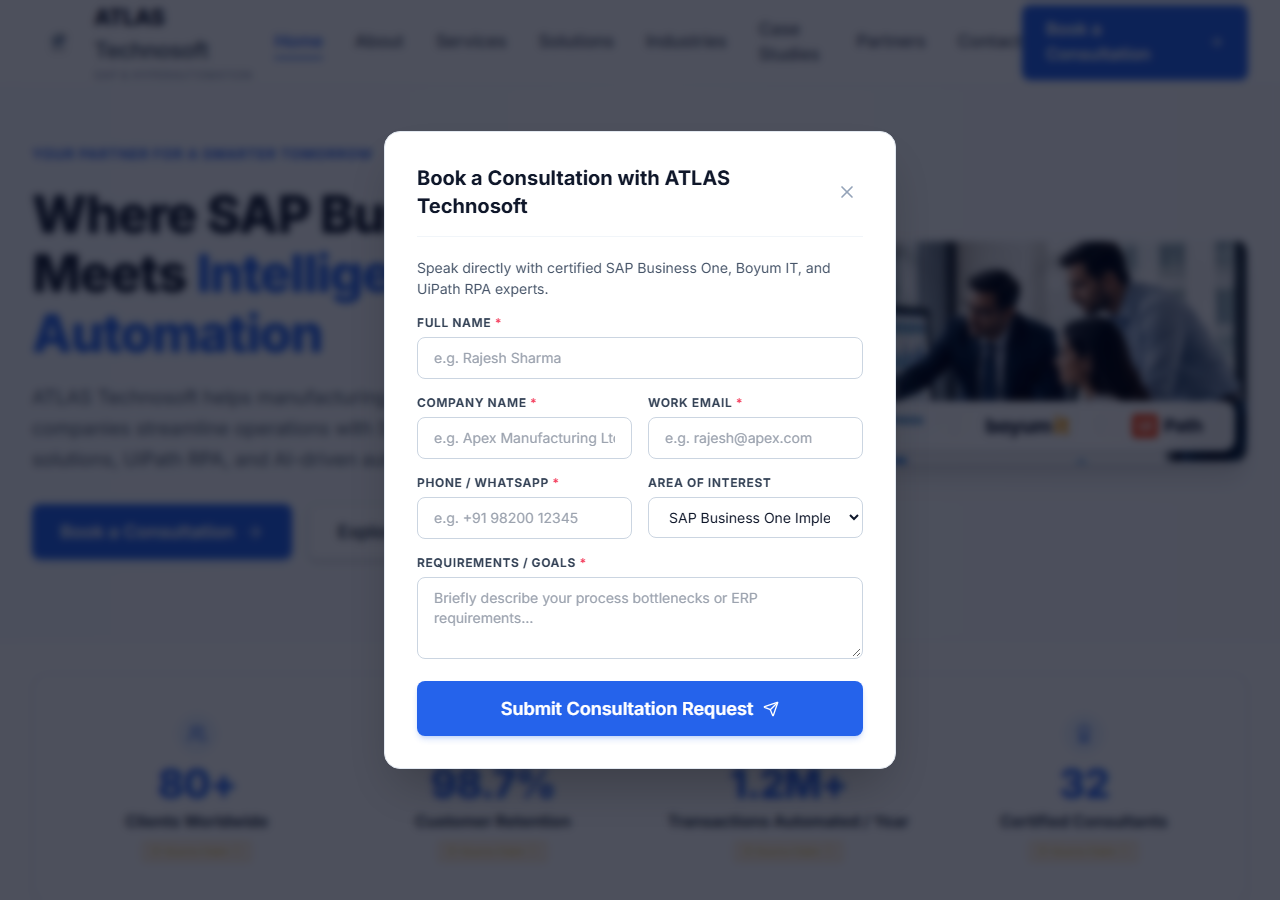
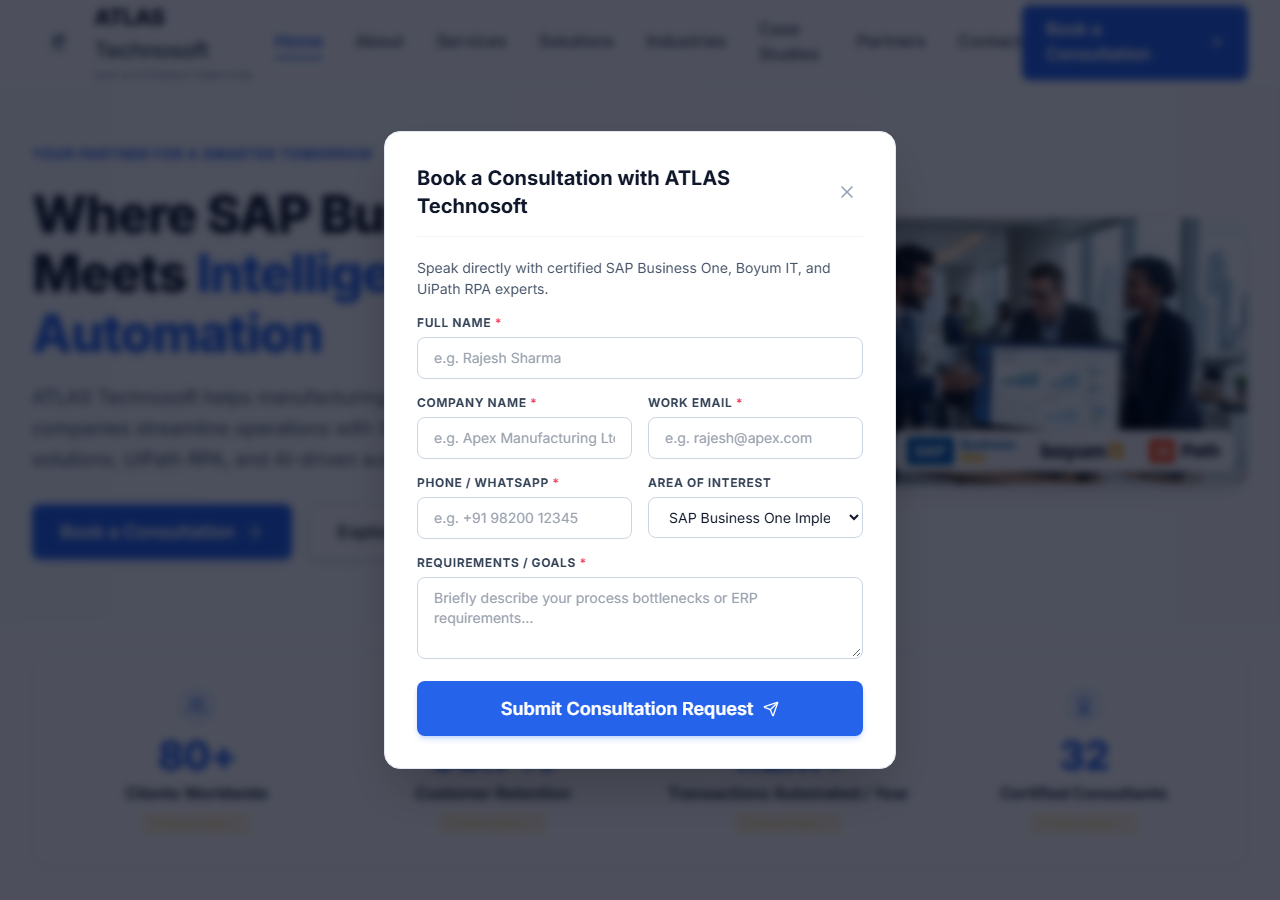
feat(ui): crystal-clear non-blurry HD reference visuals and compact box-type card sections

diff --git a/src/pages/HomePage.tsx b/src/pages/HomePage.tsx
@@ -155,14 +155,23 @@ export const HomePage: React.FC = () => {
               </div>
             </div>
 
-            {/* Right Column: EXACT Hero Image with Floating Partner Ribbon Card */}
+            {/* Right Column: Hero Visual with Crystal-Clear Team Image & Floating Partner Ribbon */}
             <div className="lg:col-span-5 relative">
-              <div className="relative mx-auto w-full max-w-lg lg:max-w-none rounded-2xl overflow-hidden shadow-xl border border-slate-200/90 bg-white">
+              <div className="relative mx-auto w-full max-w-lg lg:max-w-none rounded-2xl overflow-hidden shadow-lg border border-slate-200/90 bg-white">
                 <img
-                  src="/images/reference_exact/hero_team.png"
+                  src="/images/crystal_hd/hero_team.jpg"
                   alt="ATLAS Technosoft Enterprise Team collaborating on SAP Business One Dashboard"
-                  className="w-full h-auto object-cover max-h-[360px]"
+                  className="w-full h-auto object-cover max-h-[380px]"
                 />
+
+                {/* Floating Partner Logo Ribbon Box at Bottom Right */}
+                <div className="absolute bottom-3 right-3 bg-white/95 backdrop-blur-md rounded-xl py-2 px-3.5 shadow-md border border-slate-200/90 flex items-center gap-3">
+                  <SAPBusinessOneLogo className="h-5 sm:h-6" />
+                  <div className="h-3.5 w-px bg-slate-200" />
+                  <BoyumITLogo className="h-5 sm:h-6" />
+                  <div className="h-3.5 w-px bg-slate-200" />
+                  <UiPathLogo className="h-5 sm:h-6" />
+                </div>
               </div>
             </div>
 
@@ -173,10 +182,10 @@ export const HomePage: React.FC = () => {
       {/* ========================================================================= */}
       {/* SECTION 3: COMPANY METRICS BAR (COMPACT "SMALL SIZE" SINGLE BOX CARD)     */}
       {/* ========================================================================= */}
-      <section id="metrics" className="py-6 sm:py-8 bg-white border-b border-slate-100">
+      <section id="metrics" className="py-6 sm:py-7 bg-white border-b border-slate-100">
         <div className="max-w-[1320px] mx-auto px-4 sm:px-6 lg:px-8">
           {/* Sleek, Single White Box-Type Container Bar matching Reference Image */}
-          <div className="rounded-2xl bg-white border border-slate-200 shadow-sm p-3 sm:p-5 lg:p-6">
+          <div className="rounded-xl sm:rounded-2xl bg-white border border-slate-200/90 shadow-sm py-4 px-3 sm:px-6">
             <div className="grid grid-cols-2 lg:grid-cols-4 gap-4 divide-y sm:divide-y-0 sm:divide-x divide-slate-100">
               {TRUST_METRICS.map((metric) => (
                 <div key={metric.id} className="pt-3 sm:pt-0 first:pt-0">
@@ -189,9 +198,9 @@ export const HomePage: React.FC = () => {
       </section>
 
       {/* ========================================================================= */}
-      {/* SECTION 4: SERVICES OVERVIEW (4 BOX-TYPE CARDS)                           */}
+      {/* SECTION 4: SERVICES OVERVIEW (4 COMPACT BOX-TYPE CARDS)                   */}
       {/* ========================================================================= */}
-      <section id="services" className="py-14 sm:py-18 lg:py-20 bg-slate-50/50 border-b border-slate-100">
+      <section id="services" className="py-10 sm:py-12 lg:py-14 bg-slate-50/50 border-b border-slate-100">
         <div className="max-w-[1320px] mx-auto px-4 sm:px-6 lg:px-8">
           
           <SectionHeading
@@ -201,7 +210,7 @@ export const HomePage: React.FC = () => {
             align="center"
           />
 
-          <div className="grid grid-cols-1 md:grid-cols-2 lg:grid-cols-4 gap-6">
+          <div className="grid grid-cols-1 md:grid-cols-2 lg:grid-cols-4 gap-5 lg:gap-6">
             {/* Card 1: SAP Business One */}
             <ServiceCard
               id="sap-b1"
@@ -263,12 +272,12 @@ export const HomePage: React.FC = () => {
       {/* ========================================================================= */}
       {/* SECTION 5: OUR EXPERTISE (BRIDGING ERP AND AUTOMATION)                    */}
       {/* ========================================================================= */}
-      <section id="expertise" className="py-14 sm:py-18 lg:py-20 bg-white border-b border-slate-100">
+      <section id="expertise" className="py-10 sm:py-12 lg:py-14 bg-white border-b border-slate-100">
         <div className="max-w-[1320px] mx-auto px-4 sm:px-6 lg:px-8">
-          <div className="grid grid-cols-1 lg:grid-cols-12 gap-10 lg:gap-14 items-center">
+          <div className="grid grid-cols-1 lg:grid-cols-12 gap-8 lg:gap-12 items-center">
             
             {/* Left Content (approx 55% width) */}
-            <div className="lg:col-span-6 space-y-5">
+            <div className="lg:col-span-6 space-y-4">
               <div>
                 <span className="text-[13px] sm:text-[14px] font-bold uppercase tracking-wider text-blue-600 block mb-2">
                   OUR EXPERTISE
@@ -284,7 +293,7 @@ export const HomePage: React.FC = () => {
               </p>
 
               {/* Checklist items with blue checkmarks */}
-              <div className="space-y-3 pt-1">
+              <div className="space-y-2.5 pt-1">
                 {[
                   "End-to-end ERP implementation and support",
                   "Industry-focused solutions for manufacturing, warehousing, and trading",
@@ -303,11 +312,11 @@ export const HomePage: React.FC = () => {
               </div>
             </div>
 
-            {/* Right Image: EXACT Expertise Visual from Reference Image */}
+            {/* Right Image: Crystal-Clear Expertise Visual from Reference Image */}
             <div className="lg:col-span-6 relative">
-              <div className="relative rounded-2xl overflow-hidden shadow-lg border border-slate-200/90 bg-slate-900 max-h-[320px]">
+              <div className="relative rounded-2xl overflow-hidden shadow-lg border border-slate-200/90 bg-slate-950 max-h-[320px]">
                 <img
-                  src="/images/reference_exact/expertise_erp.png"
+                  src="/images/crystal_hd/expertise_erp.jpg"
                   alt="Bridging ERP, Manufacturing Robotics, Analytics and Cloud Automation"
                   className="w-full h-full object-cover"
                 />
@@ -321,7 +330,7 @@ export const HomePage: React.FC = () => {
       {/* ========================================================================= */}
       {/* SECTION 6: INDUSTRIES WE SERVE (4 COMPACT BOX-TYPE CARDS)                 */}
       {/* ========================================================================= */}
-      <section id="industries" className="py-14 sm:py-18 lg:py-20 bg-slate-50/50 border-b border-slate-100">
+      <section id="industries" className="py-10 sm:py-12 lg:py-14 bg-slate-50/50 border-b border-slate-100">
         <div className="max-w-[1320px] mx-auto px-4 sm:px-6 lg:px-8">
           
           <SectionHeading
@@ -331,30 +340,30 @@ export const HomePage: React.FC = () => {
             align="center"
           />
 
-          <div className="grid grid-cols-1 sm:grid-cols-2 lg:grid-cols-4 gap-6">
+          <div className="grid grid-cols-1 sm:grid-cols-2 lg:grid-cols-4 gap-5 lg:gap-6">
             <IndustryCard
               id="manufacturing"
               title="Manufacturing"
               description="Streamline production, inventory and operations."
-              imageSrc="/images/reference_exact/ind_manufacturing.png"
+              imageSrc="/images/crystal_hd/ind_manufacturing.jpg"
             />
             <IndustryCard
               id="warehouse"
               title="Warehouse & Logistics"
               description="Optimize warehousing, logistics and supply chain."
-              imageSrc="/images/reference_exact/ind_warehouse.png"
+              imageSrc="/images/crystal_hd/ind_warehouse.jpg"
             />
             <IndustryCard
               id="finance"
               title="Finance & Administration"
               description="Improve financial control and administrative efficiency."
-              imageSrc="/images/reference_exact/ind_finance.png"
+              imageSrc="/images/crystal_hd/ind_finance.jpg"
             />
             <IndustryCard
               id="trading"
               title="Trading & Shipping"
               description="Enhance trading operations and shipping processes."
-              imageSrc="/images/reference_exact/ind_shipping.png"
+              imageSrc="/images/crystal_hd/ind_shipping.jpg"
             />
           </div>
 
@@ -364,7 +373,7 @@ export const HomePage: React.FC = () => {
       {/* ========================================================================= */}
       {/* SECTION 7: OUR APPROACH (INLINE PROCESS FLOW FROM REFERENCE IMAGE)        */}
       {/* ========================================================================= */}
-      <section id="approach" className="py-14 sm:py-18 lg:py-20 bg-white border-b border-slate-100">
+      <section id="approach" className="py-10 sm:py-12 lg:py-14 bg-white border-b border-slate-100">
         <div className="max-w-[1320px] mx-auto px-4 sm:px-6 lg:px-8">
           
           <SectionHeading
@@ -404,7 +413,7 @@ export const HomePage: React.FC = () => {
       {/* ========================================================================= */}
       {/* SECTION 8: CUSTOMER SUCCESS (TWO COMPACT SIDE-BY-SIDE CARDS)              */}
       {/* ========================================================================= */}
-      <section id="case-studies" className="py-14 sm:py-18 lg:py-20 bg-slate-50/50 border-b border-slate-100">
+      <section id="case-studies" className="py-10 sm:py-12 lg:py-14 bg-slate-50/50 border-b border-slate-100">
         <div className="max-w-[1320px] mx-auto px-4 sm:px-6 lg:px-8">
           
           <SectionHeading
@@ -429,12 +438,12 @@ export const HomePage: React.FC = () => {
               <TestimonialCard
                 quote="ATLAS Technosoft helped us streamline our business processes with SAP Business One and automation solutions."
                 author="— Customer Name (To be verified)"
-                imageSrc="/images/reference_exact/testimonial_1.png"
+                imageSrc="/images/crystal_hd/testimonial_1.jpg"
               />
               <TestimonialCard
                 quote="Their expertise in warehouse solutions significantly improved our operational efficiency."
                 author="— Customer Name (To be verified)"
-                imageSrc="/images/reference_exact/testimonial_2.png"
+                imageSrc="/images/crystal_hd/testimonial_2.jpg"
               />
             </div>
 
@@ -449,7 +458,7 @@ export const HomePage: React.FC = () => {
           </div>
 
           {/* Carousel Indicator Dots */}
-          <div className="flex items-center justify-center gap-2 pt-6">
+          <div className="flex items-center justify-center gap-2 pt-5">
             <span className="w-6 h-2 rounded-full bg-blue-600 transition-all" />
             <span className="w-2 h-2 rounded-full bg-slate-300" />
             <span className="w-2 h-2 rounded-full bg-slate-300" />
@@ -462,9 +471,9 @@ export const HomePage: React.FC = () => {
       {/* ========================================================================= */}
       {/* SECTION 9: OUR PARTNERS (SIDE-BY-SIDE AS IN REFERENCE IMAGE)             */}
       {/* ========================================================================= */}
-      <section id="partners" className="py-14 sm:py-16 bg-white border-b border-slate-100">
+      <section id="partners" className="py-8 sm:py-10 bg-white border-b border-slate-100">
         <div className="max-w-[1320px] mx-auto px-4 sm:px-6 lg:px-8">
-          <div className="grid grid-cols-1 lg:grid-cols-12 gap-8 items-center">
+          <div className="grid grid-cols-1 lg:grid-cols-12 gap-6 lg:gap-8 items-center">
             
             {/* Left Side: Title & Subtitle */}
             <div className="lg:col-span-6 space-y-2 text-left">
@@ -481,7 +490,7 @@ export const HomePage: React.FC = () => {
 
             {/* Right Side: Partner Logos White Box */}
             <div className="lg:col-span-6 flex items-center justify-end">
-              <div className="w-full max-w-lg bg-white rounded-2xl border border-slate-200/90 shadow-sm py-4 px-6 flex items-center justify-around">
+              <div className="w-full max-w-lg bg-white rounded-xl sm:rounded-2xl border border-slate-200/90 shadow-sm py-4 px-6 flex items-center justify-around">
                 <SAPBusinessOneLogo className="h-7 sm:h-8" />
                 <div className="h-6 w-px bg-slate-200" />
                 <BoyumITLogo className="h-7 sm:h-8" />
@@ -497,11 +506,11 @@ export const HomePage: React.FC = () => {
       {/* ========================================================================= */}
       {/* SECTION 10: LET'S DISCUSS YOUR BUSINESS NEEDS (BOX-TYPE BANNER)           */}
       {/* ========================================================================= */}
-      <section id="contact" className="py-14 sm:py-18 lg:py-20 bg-slate-50/50">
+      <section id="contact" className="py-10 sm:py-12 lg:py-14 bg-slate-50/50">
         <div className="max-w-[1320px] mx-auto px-4 sm:px-6 lg:px-8">
           
           {/* Defined Box Container */}
-          <div className="rounded-2xl bg-gradient-to-br from-blue-50/80 via-sky-50/40 to-blue-50/80 border border-blue-200/90 p-8 sm:p-10 lg:p-12 shadow-sm">
+          <div className="rounded-2xl bg-gradient-to-br from-blue-50/80 via-sky-50/40 to-blue-50/80 border border-blue-200/90 p-6 sm:p-8 lg:p-10 shadow-sm">
             <div className="grid grid-cols-1 lg:grid-cols-12 gap-8 lg:gap-10 items-center">
               
               {/* Left Column: Heading, Subtext & CTA Button */}

diff --git a/src/components/ui/SolutionCard.tsx b/src/components/ui/SolutionCard.tsx
@@ -18,44 +18,44 @@ export const ServiceCard: React.FC<ServiceCardProps> = ({
   ctaTarget = "#contact"
 }) => {
   return (
-    <div className="group flex flex-col justify-between p-7 sm:p-8 rounded-xl bg-white border border-slate-200 shadow-sm hover:border-blue-400 hover:shadow-lg transition-all duration-300 h-full">
+    <div className="group flex flex-col justify-between p-5 sm:p-6 rounded-xl bg-white border border-slate-200/90 shadow-sm hover:border-blue-400 hover:shadow-md transition-all duration-200 h-full">
       <div>
         {/* Top Logo / Icon Box */}
-        <div className="h-12 flex items-center mb-6 pb-4 border-b border-slate-100">
-          {id === 'sap-b1' && <SAPBusinessOneLogo className="h-7" />}
-          {id === 'boyum' && <BoyumITLogo className="h-7" />}
-          {id === 'uipath' && <UiPathLogo className="h-7" />}
+        <div className="h-10 flex items-center mb-4 pb-3 border-b border-slate-100">
+          {id === 'sap-b1' && <SAPBusinessOneLogo className="h-6 sm:h-7" />}
+          {id === 'boyum' && <BoyumITLogo className="h-6 sm:h-7" />}
+          {id === 'uipath' && <UiPathLogo className="h-6 sm:h-7" />}
           {id === 'atlas' && (
-            <div className="flex items-center gap-2.5">
-              <div className="w-9 h-9 rounded-lg bg-blue-50 text-blue-600 flex items-center justify-center border border-blue-100">
-                <Settings className="w-5 h-5 animate-[spin_10s_linear_infinite]" />
+            <div className="flex items-center gap-2">
+              <div className="w-8 h-8 rounded-lg bg-blue-50 text-blue-600 flex items-center justify-center border border-blue-100">
+                <Settings className="w-4 h-4 animate-[spin_10s_linear_infinite]" />
               </div>
-              <span className="font-extrabold text-[16px] tracking-tight text-slate-900">ATLAS Add-ons</span>
+              <span className="font-extrabold text-[15px] sm:text-[16px] tracking-tight text-slate-900">ATLAS Add-ons</span>
             </div>
           )}
         </div>
 
         {/* Card Heading: 20–23px */}
-        <h3 className="text-[20px] sm:text-[22px] font-bold text-slate-900 group-hover:text-blue-600 transition-colors leading-snug mb-5">
+        <h3 className="text-[19px] sm:text-[21px] font-bold text-slate-900 group-hover:text-blue-600 transition-colors leading-snug mb-3">
           {title}
         </h3>
 
-        {/* Bullets: 16–17px */}
-        <ul className="space-y-3.5 mb-8">
+        {/* Bullets: 15–16px */}
+        <ul className="space-y-2 mb-6">
           {bullets.map((bullet, idx) => (
-            <li key={idx} className="flex items-start gap-3 text-[15px] sm:text-[16px] text-slate-600">
-              <span className="w-2 h-2 rounded-full bg-blue-600 shrink-0 mt-2" />
+            <li key={idx} className="flex items-start gap-2.5 text-[14px] sm:text-[15px] text-slate-600">
+              <span className="w-1.5 h-1.5 rounded-full bg-blue-600 shrink-0 mt-2" />
               <span className="leading-snug">{bullet}</span>
             </li>
           ))}
         </ul>
       </div>
 
-      {/* Learn More link: 16px or larger */}
-      <div className="pt-4 border-t border-slate-100">
+      {/* Learn More link: 16px */}
+      <div className="pt-3 border-t border-slate-100">
         <a
           href={ctaTarget}
-          className="inline-flex items-center gap-2 text-[16px] font-bold text-blue-600 hover:text-blue-700 group-hover:gap-3 transition-all"
+          className="inline-flex items-center gap-1.5 text-[15px] sm:text-[16px] font-bold text-blue-600 hover:text-blue-700 group-hover:gap-2.5 transition-all"
         >
           <span>{ctaText}</span>
           <ArrowRight className="w-4 h-4" />

diff --git a/src/components/ui/TestimonialCard.tsx b/src/components/ui/TestimonialCard.tsx
@@ -10,9 +10,9 @@ interface TestimonialCardProps {
 
 export const TestimonialCard: React.FC<TestimonialCardProps> = ({ quote, author, imageSrc }) => {
   return (
-    <div className="flex flex-col sm:flex-row items-center rounded-xl bg-white border border-slate-200 shadow-sm overflow-hidden hover:shadow-md transition-shadow h-full">
+    <div className="flex flex-col sm:flex-row items-center rounded-xl bg-white border border-slate-200/90 shadow-sm overflow-hidden hover:shadow-md transition-shadow h-full">
       {/* Left Photo Box */}
-      <div className="w-full sm:w-36 md:w-40 h-44 sm:h-full min-h-[160px] bg-slate-100 shrink-0 relative overflow-hidden border-b sm:border-b-0 sm:border-r border-slate-200">
+      <div className="w-full sm:w-32 md:w-36 h-36 sm:h-full min-h-[140px] bg-slate-100 shrink-0 relative overflow-hidden border-b sm:border-b-0 sm:border-r border-slate-200/90">
         <img
           src={imageSrc}
           alt="Client portrait"
@@ -24,21 +24,21 @@ export const TestimonialCard: React.FC<TestimonialCardProps> = ({ quote, author,
       </div>
 
       {/* Right Content Box */}
-      <div className="p-5 sm:p-6 flex-1 flex flex-col justify-between h-full">
+      <div className="p-4 sm:p-5 flex-1 flex flex-col justify-between h-full">
         <div>
           {/* Blue quote mark */}
-          <div className="text-blue-600 mb-2">
-            <Quote className="w-6 h-6 fill-blue-50 text-blue-600" />
+          <div className="text-blue-600 mb-1.5">
+            <Quote className="w-5 h-5 fill-blue-50 text-blue-600" />
           </div>
 
           {/* Quotation text */}
-          <p className="text-[14px] sm:text-[15px] italic text-slate-700 leading-relaxed mb-3">
+          <p className="text-[14px] sm:text-[15px] italic text-slate-700 leading-relaxed mb-2.5">
             "{quote}"
           </p>
         </div>
 
         {/* Attribution & Verification Footer */}
-        <div className="pt-2.5 border-t border-slate-100 flex items-center justify-between text-xs">
+        <div className="pt-2 border-t border-slate-100 flex items-center justify-between text-xs">
           <span className="font-semibold text-slate-700">
             {author}
           </span>

diff --git a/src/components/ui/IndustryCard.tsx b/src/components/ui/IndustryCard.tsx
@@ -17,10 +17,10 @@ const iconMap: Record<string, React.ReactNode> = {
 
 export const IndustryCard: React.FC<IndustryCardProps> = ({ id, title, description, imageSrc }) => {
   return (
-    <div className="group flex flex-col justify-between rounded-xl bg-white border border-slate-200 overflow-hidden shadow-sm hover:shadow-md hover:border-blue-300 transition-all duration-200 h-full">
+    <div className="group flex flex-col justify-between rounded-xl bg-white border border-slate-200/90 overflow-hidden shadow-sm hover:shadow-md hover:border-blue-300 transition-all duration-200 h-full">
       
-      {/* Sleek Landscape Image Container (32-36 on desktop, perfect proportion) */}
-      <div className="relative w-full h-32 sm:h-36 overflow-hidden bg-slate-100 border-b border-slate-200">
+      {/* Sleek Landscape Image Container (Panoramic ~2.8:1 ratio, matching reference UI) */}
+      <div className="relative w-full h-28 sm:h-32 overflow-hidden bg-slate-100 border-b border-slate-200/90">
         <img
           src={imageSrc}
           alt={title}
@@ -32,13 +32,13 @@ export const IndustryCard: React.FC<IndustryCardProps> = ({ id, title, descripti
       </div>
 
       {/* Card Content Bar: Title, Description, and Action Arrow */}
-      <div className="p-4 sm:p-5 flex-1 flex items-center justify-between gap-3">
+      <div className="p-3.5 sm:p-4 flex-1 flex items-center justify-between gap-3">
         <div className="space-y-1">
           <div className="flex items-center gap-2">
             <div className="text-blue-600 shrink-0">
               {iconMap[id] || <Factory className="w-4 h-4 text-blue-600" />}
             </div>
-            <h3 className="text-[17px] sm:text-[19px] font-bold text-slate-900 group-hover:text-blue-600 transition-colors leading-snug">
+            <h3 className="text-[17px] sm:text-[18px] font-bold text-slate-900 group-hover:text-blue-600 transition-colors leading-snug">
               {title}
             </h3>
           </div>

diff --git a/src/styles/index.css b/src/styles/index.css
@@ -28,9 +28,8 @@
     linear-gradient(to bottom, rgba(255, 255, 255, 0.05) 1px, transparent 1px);
 }
 
-.bg-radial-glow {
-  background: radial-gradient(circle at 50% 0%, rgba(37, 99, 235, 0.18) 0%, rgba(7, 13, 30, 0) 70%);
-}
+
+
 
 .bg-dot-pattern {
   background-image: radial-gradient(rgba(148, 163, 184, 0.25) 1px, transparent 1px);
